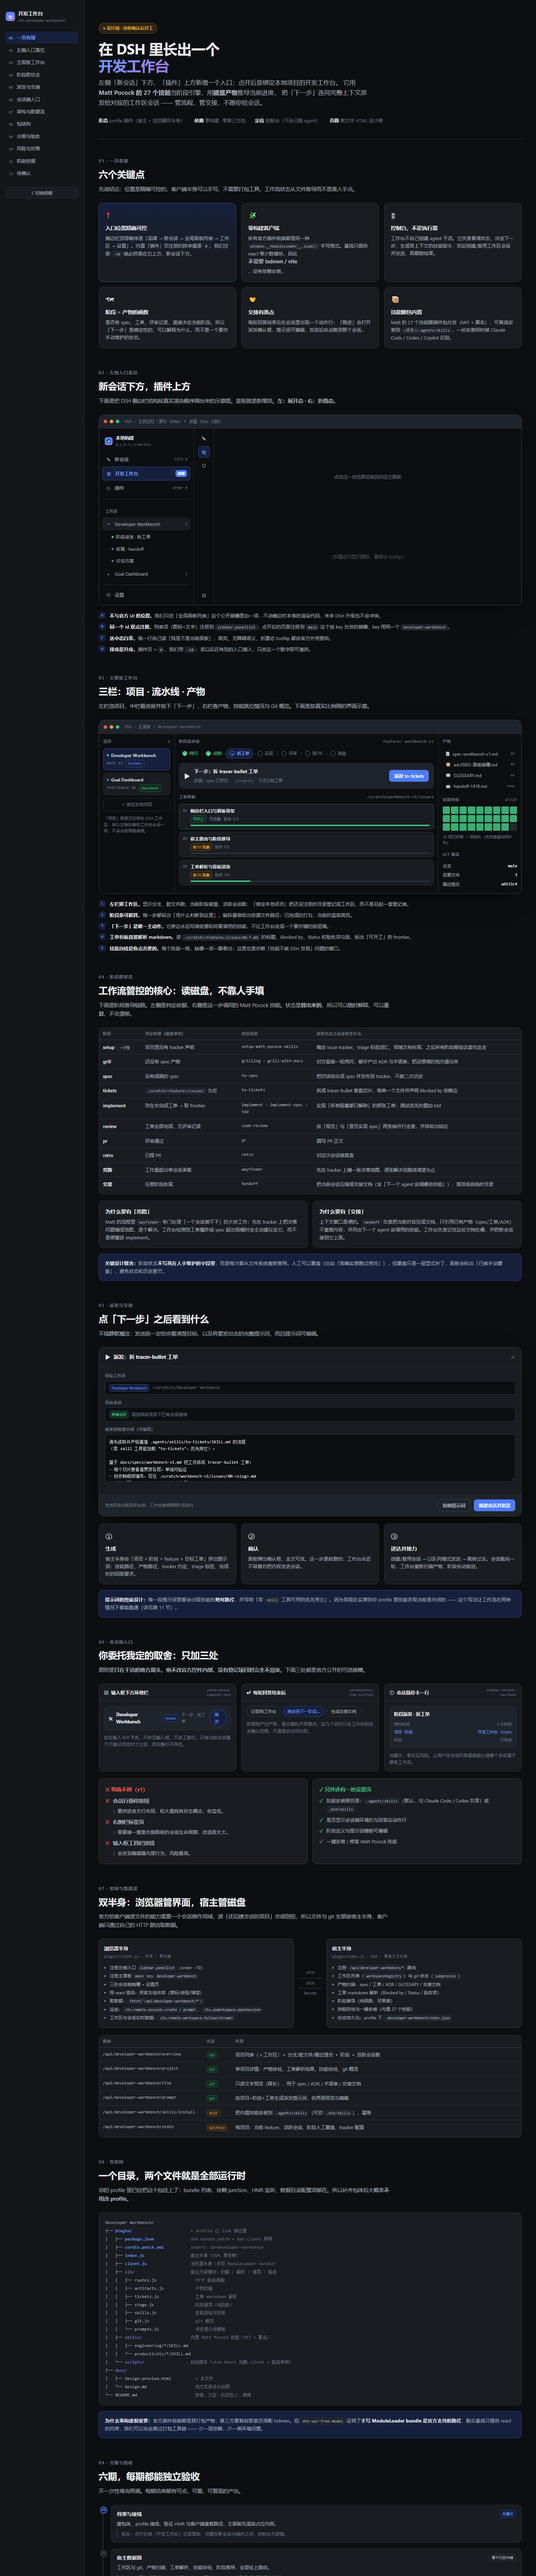
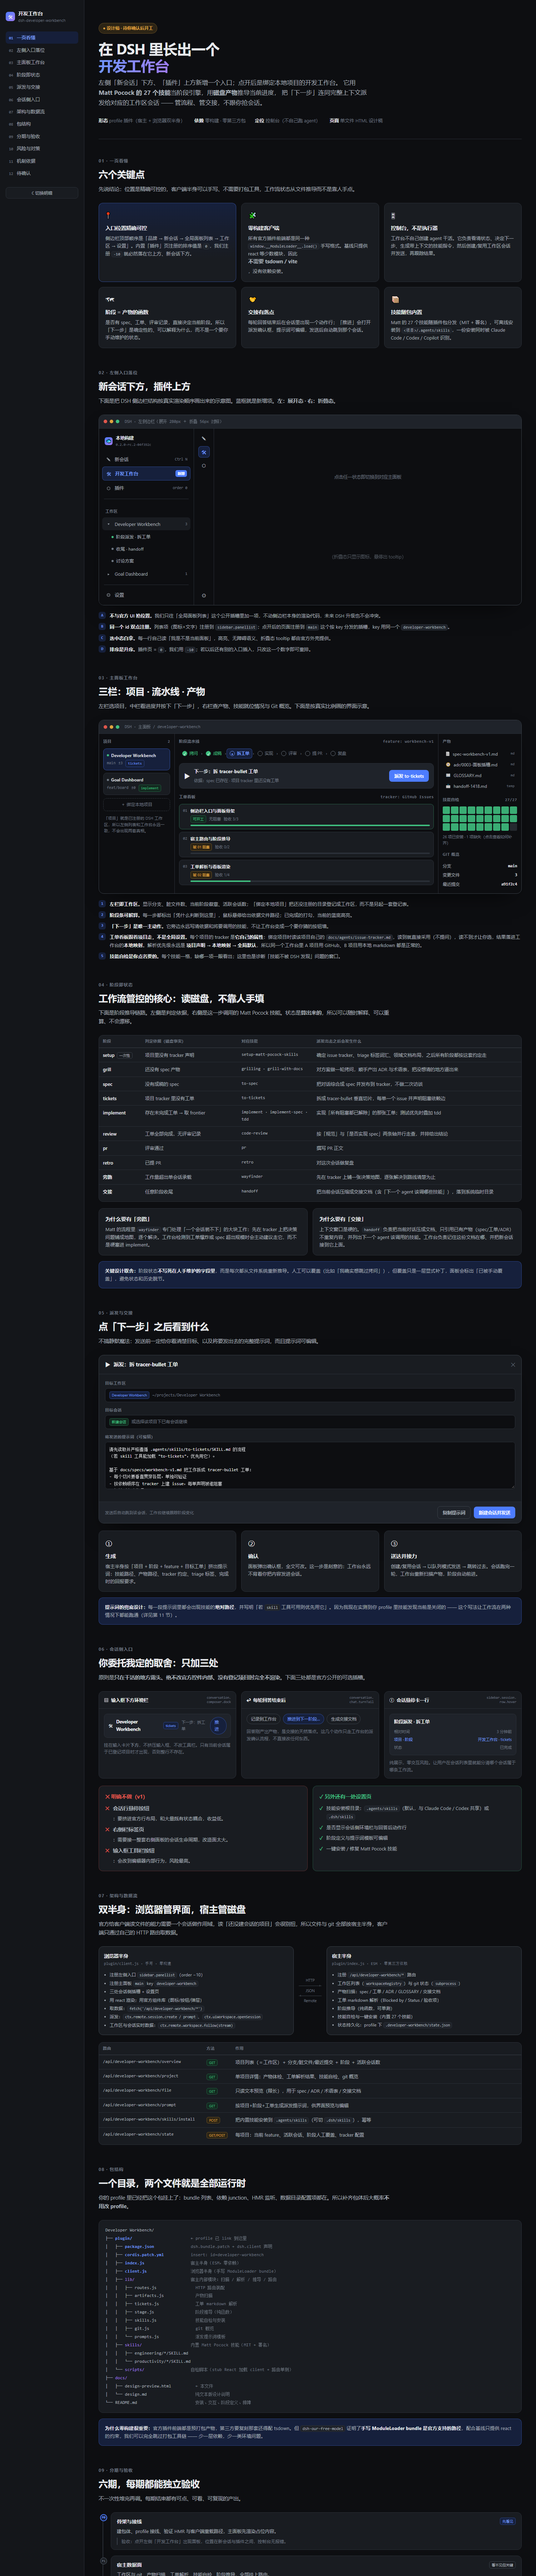
docs: tracker 改为「项目自己的属性」并修正设计稿与约定
用户指出的逻辑漏洞：把某个项目的 tracker 选择硬编码成工作台全局设置是错的。

- AGENTS.md 新增不变式：解析优先级 = 项目声明 → per-project 本地映射 → 全局默认；
  绑定项目时初始化（读到就采用、不读不到才问），永不把单个项目的选择提升为默认值
- design-preview.html：看板表述从「读本地 .scratch markdown」改为「跟项目走」，
  派发提示词示例与风险边界同步更新，预览图重渲染

Changed region(s): [[0.184, 0.3438, 0.9813, 1.0]]

diff --git a/docs/design-preview.html b/docs/design-preview.html
@@ -503,11 +503,11 @@
             <span style="font-size:17px">▶</span>
             <div class="txt">
               <b>下一步：拆 tracer-bullet 工单</b>
-              <span>依据：spec 已存在 · <code class="mono">.scratch/</code> 下还没有工单</span>
+              <span>依据：spec 已存在 · 项目 tracker 里还没有工单</span>
             </div>
             <button class="btn">派发 to-tickets</button>
           </div>
-          <h4>工单看板 <span style="font-family:var(--mono);color:var(--fg3);text-transform:none">.scratch/workbench-v1/issues</span></h4>
+          <h4>工单看板 <span style="font-family:var(--mono);color:var(--fg3);text-transform:none">tracker: GitHub Issues</span></h4>
           <div class="tk ready">
             <span class="no">01</span>
             <div class="bd">
@@ -560,7 +560,7 @@
     <li><span class="n">1</span><span><b>左栏即工作区。</b>显示分支、脏文件数、当前阶段徽章、活跃会话数；「绑定本地项目」把还没注册的目录登记成工作区，而不是另起一套登记表。</span></li>
     <li><span class="n">2</span><span><b>阶段条可解释。</b>每一步都标出「凭什么判断到这里」，鼠标悬停给出依据文件路径；已完成的打勾，当前的蓝底高亮。</span></li>
     <li><span class="n">3</span><span><b>「下一步」是唯一主动作。</b>它旁边永远写清依据和将要调用的技能，不让工作台变成一个要你猜的按钮墙。</span></li>
-    <li><span class="n">4</span><span><b>工单看板直接解析 markdown。</b>读 <code>.scratch/&lt;feature&gt;/issues/NN-*.md</code> 的标题、Blocked by、Status 和验收项勾选，标出「可开工」的 frontier。</span></li>
+    <li><span class="n">4</span><span><b>工单看板跟着项目走，不是全局设置。</b>每个项目的 tracker 是<b>它自己的属性</b>：绑定项目时读该项目自己的 <code>docs/agents/issue-tracker.md</code>，读到就直接采用（不提问），读不到才让你选，结果落进工作台的<b>本地映射</b>。解析优先级永远是 <b>项目声明 → 本地映射 → 全局默认</b>，所以同一个工作台里 A 项目用 GitHub、B 项目用本地 markdown 都是正常的。</span></li>
     <li><span class="n">5</span><span><b>技能自检是你点名要的。</b>每个技能一格，缺哪一项一眼看出；这里也是诊断「技能不被 DSH 发现」问题的窗口。</span></li>
   </ul>
 </section>
@@ -578,7 +578,7 @@
         <tr><td><b>setup</b><span class="chip" style="margin-left:6px">一次性</span></td><td>项目里没有 tracker 声明</td><td class="mono">setup-matt-pocock-skills</td><td>确定 issue tracker、triage 标签词汇、领域文档布局，之后所有阶段都按这套约定走</td></tr>
         <tr><td><b>grill</b></td><td>还没有 spec 产物</td><td class="mono">grilling · grill-with-docs</td><td>对方案做一轮拷问，顺手产出 ADR 与术语表，把没想清的地方逼出来</td></tr>
         <tr><td><b>spec</b></td><td>没有成稿的 spec</td><td class="mono">to-spec</td><td>把对话综合成 spec 并发布到 tracker，不做二次访谈</td></tr>
-        <tr><td><b>tickets</b></td><td><code>.scratch/&lt;feature&gt;/issues/</code> 为空</td><td class="mono">to-tickets</td><td>拆成 tracer-bullet 垂直切片，每单一个文件并声明 Blocked by 依赖边</td></tr>
+        <tr><td><b>tickets</b></td><td>项目 tracker 里没有工单</td><td class="mono">to-tickets</td><td>拆成 tracer-bullet 垂直切片，每单一个 issue 并声明阻塞依赖边</td></tr>
         <tr><td><b>implement</b></td><td>存在未完成工单 → 取 frontier</td><td class="mono">implement · implement-spec · tdd</td><td>实现「所有阻塞都已解除」的那张工单；测试优先时叠加 tdd</td></tr>
         <tr><td><b>review</b></td><td>工单全部完成，无评审记录</td><td class="mono">code-review</td><td>按「规范」与「是否实现 spec」两条轴并行走查，并排给出结论</td></tr>
         <tr><td><b>pr</b></td><td>评审通过</td><td class="mono">pr</td><td>撰写 PR 正文</td></tr>
@@ -629,10 +629,10 @@
 
 基于 docs/specs/workbench-v1.md 把工作拆成 tracer-bullet 工单：
 - 每个切片要垂直贯穿各层，单独可验证
-- 按依赖顺序编号，写在 .scratch/workbench-v1/issues/NN-<slug>.md
-- 每单声明 Blocked by，并列出验收项
+- 按依赖顺序在 tracker 上建 issue，每单声明被谁阻塞
+- 每单列出验收项
 
-tracker：本地文件（.scratch/）
+tracker：GitHub Issues（来自项目自己的声明，见 docs/agents/issue-tracker.md）
 triage 标签：ready-for-agent
 完成后回报工单清单与依赖边。</textarea>
       </div>
@@ -921,7 +921,7 @@ triage 标签：ready-for-agent
       <div class="bd">
         <b>不碰你的既有项目</b>
         <p>你要求不参考本地已有项目（如 <code>dsh-graph</code>、<code>dsh-workflow-kernel</code>），我按此执行。</p>
-        <div class="fx"><b>边界：</b>工作台只读写「被绑定项目」的 <code>.agents/skills</code>、<code>.scratch/</code>，以及它自己的状态文件；对项目的写入全部走显式确认。</div>
+        <div class="fx"><b>边界：</b>工作台只读写「被绑定项目」的 <code>.agents/skills</code>、项目自己的 tracker 声明、以及它自己的状态文件（含 tracker 本地映射）；对项目的写入全部走显式确认。</div>
       </div>
     </div>
   </div>

diff --git a/AGENTS.md b/AGENTS.md
@@ -30,6 +30,7 @@ node plugin/scripts/verify.mjs
 - **技能只发现一层**：`<root>/<name>/SKILL.md`。别把技能放进子目录。
 - **`skills/` 顶层不要放没有 frontmatter 的 `.md`** —— 顶层 `<name>.md` 会被当成技能，缺 frontmatter 会被静默跳过。
 - **前端颜色一律用主题 token**（`--dsw-alias-*`、`--dsh-frame-top-clearance`），不要写死。
+- **tracker 是「项目」的属性，不是工作台的全局设置。** 解析优先级固定为：项目自己的 `docs/agents/issue-tracker.md` → 工作台的 per-project 本地映射 → 全局默认兜底。绑定项目时初始化（读到就采用、不提问；读不到才问用户），结果落进本地映射，之后以映射为准。同一个工作台里 A 项目用 GitHub、B 项目用本地 markdown 是正常的 —— **永远不要把某个项目的选择提升成工作台默认值**。
 - **不要修改 `plugin/skills/` 里的技能正文**：那是 Matt Pocock 的上游内容（MIT）。本地适配另开目录。
 
 ## 已知坑（踩过，别再踩）
